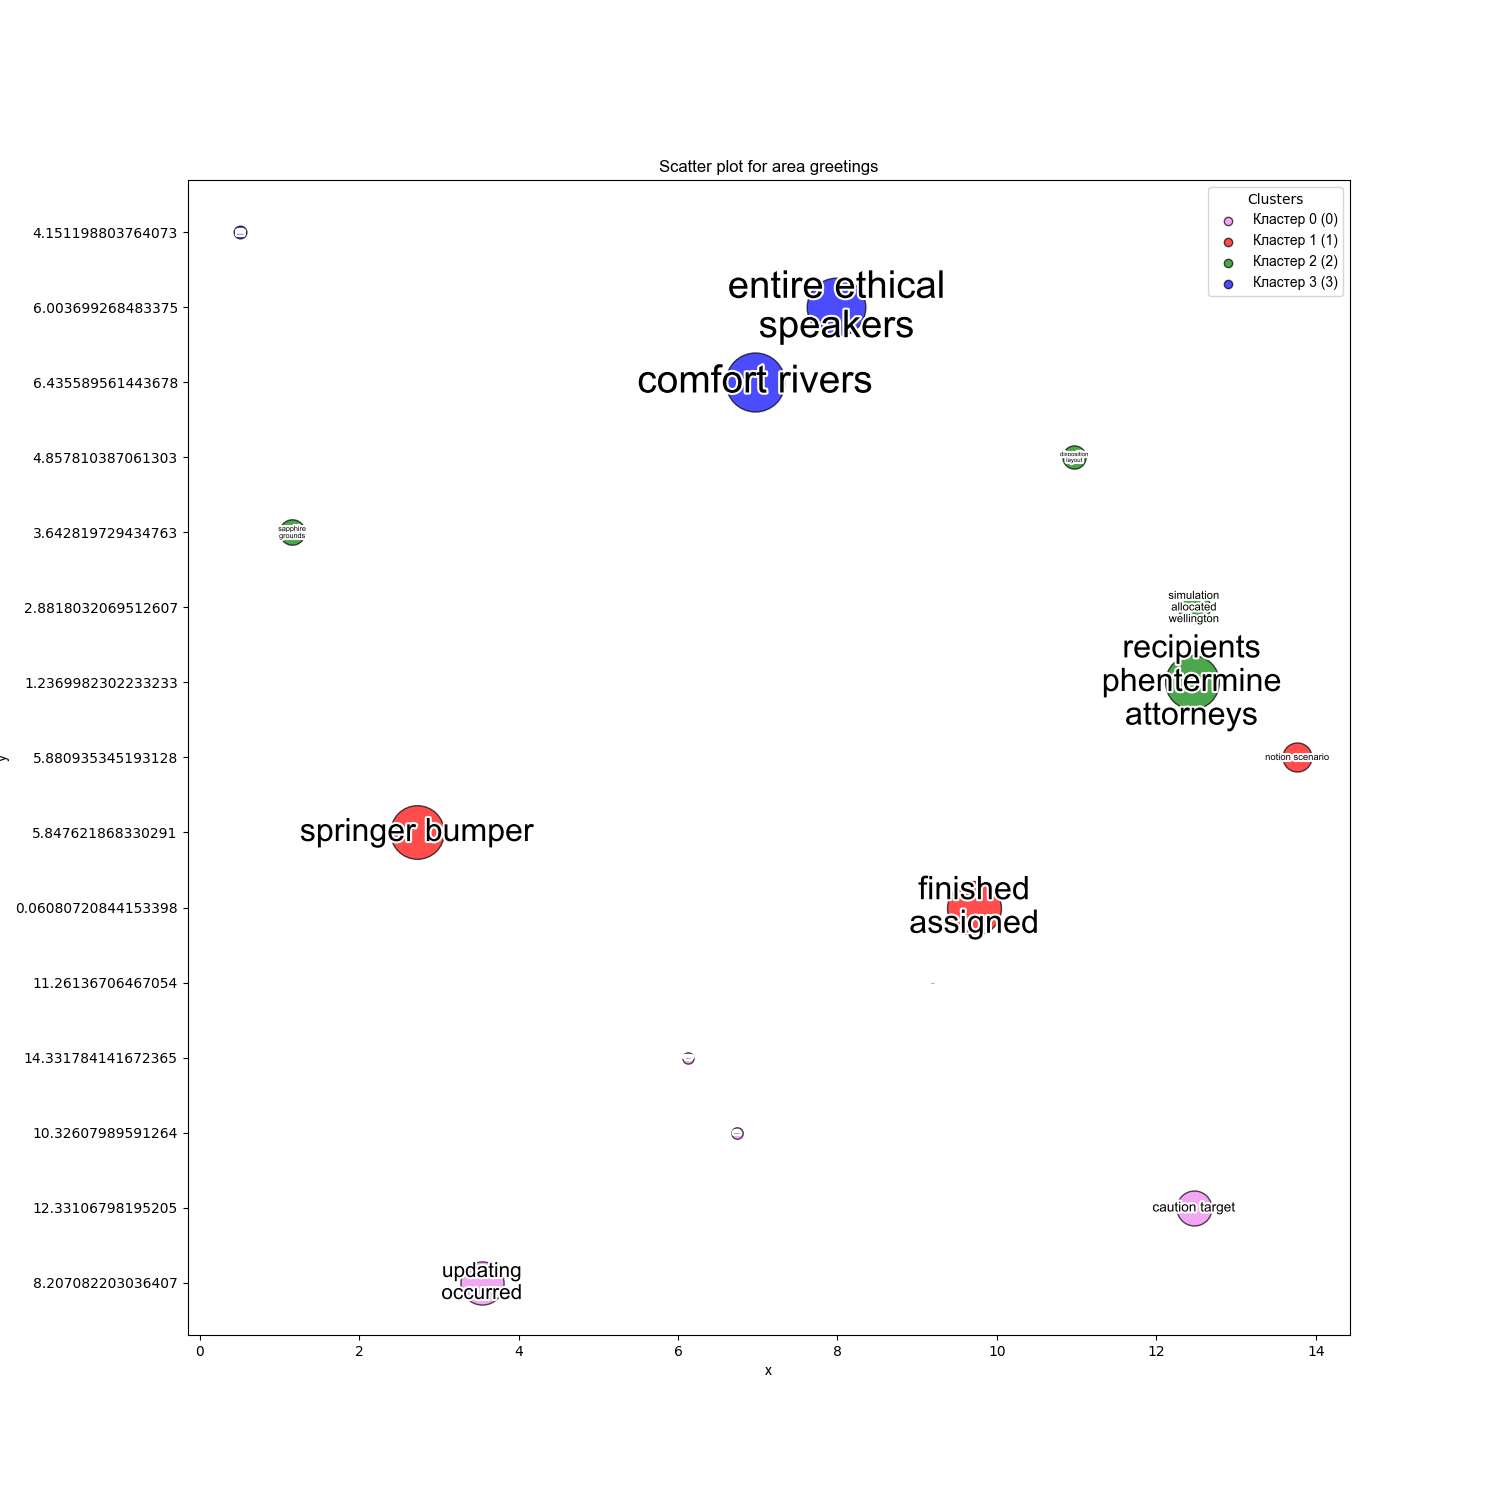
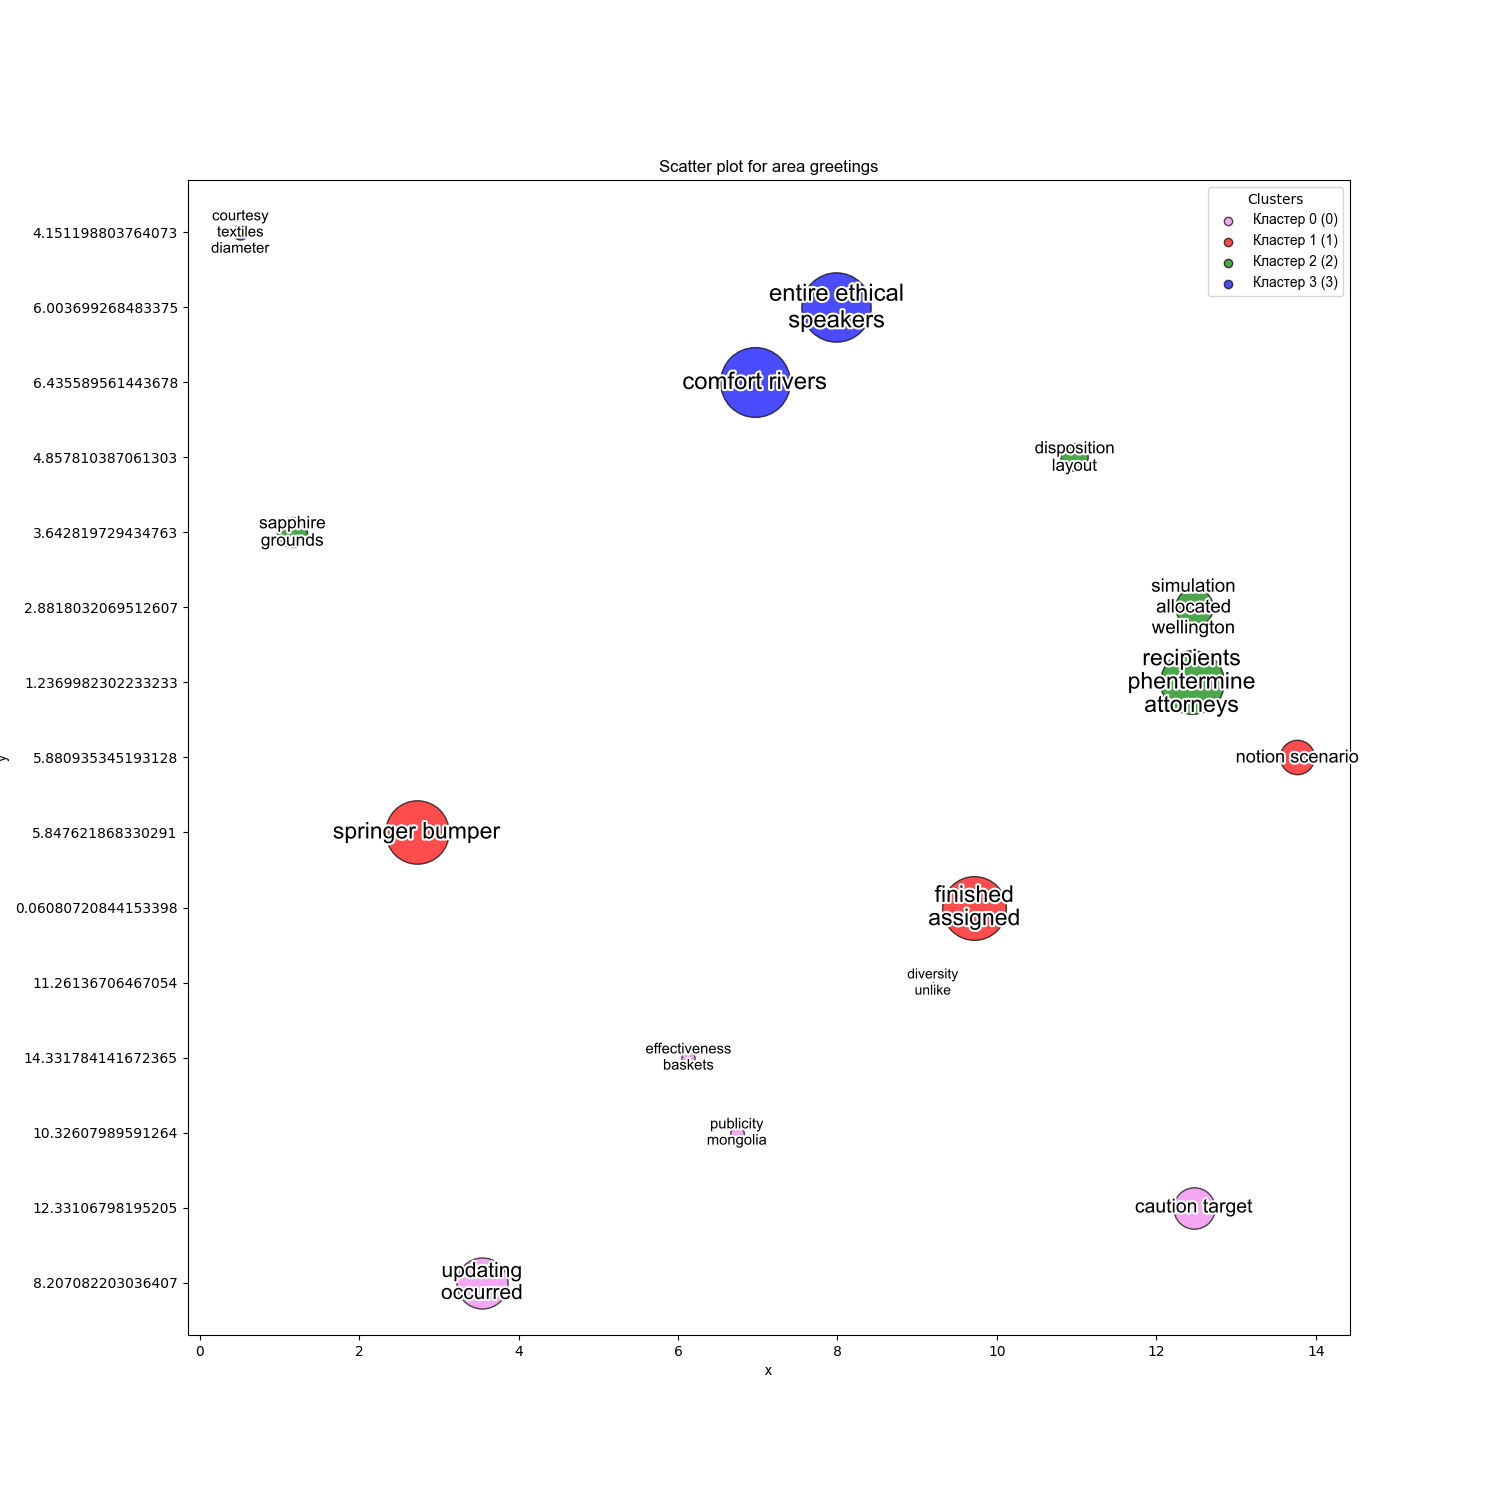
size_scale of text added

diff --git a/main.py b/main.py
@@ -1,6 +1,7 @@
 import pandas as pd
 import matplotlib.pyplot as plt
 import os
+from math import log10
 
 # Part 1: Data Processing
 
@@ -78,6 +79,14 @@ areas = output_data['area'].unique()
 if not os.path.exists('scatter_plots'):
     os.makedirs('scatter_plots')
 
+mas = []
+
+def size_scaler(x,max_count):
+    print(x,max_count)
+    f = 10*log10(x/pow(max_count,1/2)+10)
+    mas.append(f)
+    return f
+
 for area in areas:
     area_data = output_data[output_data['area'] == area]
     area_data['count'] = pd.to_numeric(area_data['count'], errors='coerce') # Convert 'count' column to numeric data type, non-numeric values to NaN
@@ -86,8 +95,10 @@ for area in areas:
 
     fig, ax = plt.subplots(figsize=(15, 15))
     for index, row in area_data.iterrows():
-        ax.scatter(row['x'], row['y'], s=row['count'], c=row['color'], edgecolors='k', alpha=0.7)
-        text = ax.text(row['x'], row['y'], split_long_phrases(row['keyword']), fontsize=row['count']*28/max_count, ha='center', va='center', fontname='Arial')
+        ax.scatter(row['x'], row['y'], s=1.4*row['count'], c=row['color'], edgecolors='k', alpha=0.7)
+        
+        text = ax.text(row['x'], row['y'], split_long_phrases(row['keyword']), fontsize=size_scaler(row['count'],max_count),
+                        ha='center', va='center', fontname='Arial')
         text.set_path_effects([PathEffects.withStroke(linewidth=3, foreground='w')])
 
     ax.set_title(f'Scatter plot for area {area}', fontname='Arial')
@@ -102,3 +113,5 @@ for area in areas:
 
     plt.savefig(f'scatter_plots/scatter_plot_area_{area}.png', dpi=100)
     plt.close(fig)
+
+print([round(x) for x in mas])
